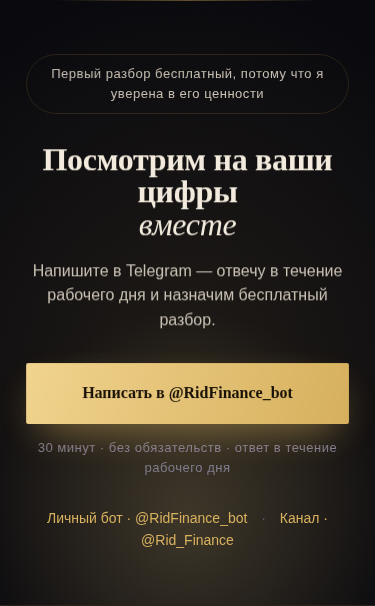
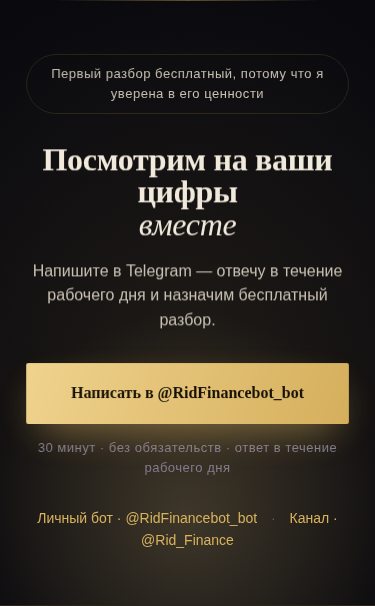
Rename Telegram bot @RidFinance_bot -> @RidFinancebot_bot site-wide
Bot handle changed. Replace every occurrence of RidFinance_bot with
RidFinancebot_bot across the site and docs:
- verdict CTA deep link t.me/RidFinancebot_bot?start=<token>
- final 'Написать в @RidFinancebot_bot' button (text + href)
- footer contact 'Личный бот · @RidFinancebot_bot'
- token-builder comment + TOKEN-SPEC.md + reviewer agent definitions
Channel @Rid_Finance left untouched. Token d3 format and build logic
unchanged — only the bot address in the link changed.

Changed region(s): [[0.176, 0.6238, 0.8213, 0.6832], [0.088, 0.8317, 0.704, 0.8614], [0.7333, 0.8317, 0.88, 0.8614]]

diff --git a/index.html b/index.html
@@ -644,7 +644,7 @@
         <p class="verdict-soft" id="vSoft"></p>
         <div class="cta-row">
           <a class="btn btn-sm" id="tgSend" target="_blank" rel="noopener"
-             href="https://t.me/RidFinance_bot">
+             href="https://t.me/RidFinancebot_bot">
             <svg width="15" height="15" viewBox="0 0 24 24" fill="none" stroke="currentColor"
               stroke-width="1.8" stroke-linecap="round" stroke-linejoin="round" aria-hidden="true">
               <path d="M22 2L11 13"/><path d="M22 2l-7 20-4-9-9-4 20-7z"/></svg>
@@ -923,12 +923,12 @@
     </p>
 
     <div class="cta-final reveal" data-rv="scale">
-      <a href="https://t.me/RidFinance_bot" class="btn" target="_blank" rel="noopener">Написать в @RidFinance_bot</a>
+      <a href="https://t.me/RidFinancebot_bot" class="btn" target="_blank" rel="noopener">Написать в @RidFinancebot_bot</a>
       <p class="micro">30 минут · без обязательств · ответ в течение рабочего дня</p>
     </div>
 
     <div class="contacts">
-      <a href="https://t.me/RidFinance_bot" target="_blank" rel="noopener">Личный бот · @RidFinance_bot</a>
+      <a href="https://t.me/RidFinancebot_bot" target="_blank" rel="noopener">Личный бот · @RidFinancebot_bot</a>
       <span class="contacts-sep" aria-hidden="true">·</span>
       <a href="https://t.me/Rid_Finance" target="_blank" rel="noopener">Канал · @Rid_Finance</a>
     </div>
@@ -1126,7 +1126,7 @@ function choosePrimary(active, money) {
   })[0];
 }
 
-/* ─ Deep-link токен для @RidFinance_bot (открывается как ?start=ТОКЕН) ─
+/* ─ Deep-link токен для @RidFinancebot_bot (открывается как ?start=ТОКЕН) ─
    Полная спецификация для доработки Apps Script: TOKEN-SPEC.md
    Формат (≤64 симв., только A-Za-z0-9_-):  d3_<ниша>_<зоны5>_<ответы3>_<оборот>_<приоритет>
    • ниша      — 1 символ: t=торговля, p=производство, u=услуги, s=строительство,
@@ -1146,7 +1146,7 @@ function buildStartToken(primaryKey) {
 }
 const tgSendEl = document.getElementById('tgSend');
 let lastPrimary = null;
-function tgHref() { return 'https://t.me/RidFinance_bot?start=' + buildStartToken(lastPrimary); }
+function tgHref() { return 'https://t.me/RidFinancebot_bot?start=' + buildStartToken(lastPrimary); }
 function updateTgLink(primaryKey) {
   lastPrimary = primaryKey || null;
   if (tgSendEl) tgSendEl.href = tgHref();

diff --git a/.claude/agents/conversion-funnel-reviewer.md b/.claude/agents/conversion-funnel-reviewer.md
@@ -8,14 +8,14 @@ model: sonnet
 You are a conversion-funnel reviewer for a single-file landing
 (`index.html`) belonging to «Татьяна Рид · CFO на аутсорсе». The site has a
 mini-audit (leak chips + 3 questions + turnover slider) that produces a
-verdict, and a contact path to `@RidFinance_bot`. Judge whether the funnel
+verdict, and a contact path to `@RidFinancebot_bot`. Judge whether the funnel
 truly converts. You report; you do not rewrite.
 
 ## What "closed funnel" means here
 - After finishing the mini-audit, the visitor can send their result to
   Tatiana **through a channel that actually works on a static site** — the
   current design uses a Telegram deep link
-  `https://t.me/RidFinance_bot?start=<token>` where the token encodes the
+  `https://t.me/RidFinancebot_bot?start=<token>` where the token encodes the
   audit state. Confirm the link is built and updated, the token is URL-safe
   (`A-Za-z0-9_-`) and ≤64 chars, and it reflects the chosen zones, the three
   answers, turnover and the priority zone.
@@ -32,10 +32,10 @@ truly converts. You report; you do not rewrite.
   the audit context to Tatiana (deep-link token). Drive Playwright: toggle
   zones/answers/slider and assert `#tgSend` href changes and the token
   matches the inputs.
-- **Short path to contact**: from the verdict, reaching `@RidFinance_bot` is
+- **Short path to contact**: from the verdict, reaching `@RidFinancebot_bot` is
   ≤1 click; a secondary "записаться" path exists and points at the contact
   section.
-- **All Telegram links resolve to the right handle** (`RidFinance_bot`), open
+- **All Telegram links resolve to the right handle** (`RidFinancebot_bot`), open
   in a new tab (`target="_blank" rel="noopener"`).
 - **No redundant/competing CTAs** that confuse the next step.
 - **Honesty**: if structured data needs bot-side work, the page/PR says so —

diff --git a/TOKEN-SPEC.md b/TOKEN-SPEC.md
@@ -1,9 +1,9 @@
-# Спецификация `?start=`-токена для @RidFinance_bot
+# Спецификация `?start=`-токена для @RidFinancebot_bot
 
 Лендинг после прохождения экспресс-диагностики формирует ссылку
 
 ```
-https://t.me/RidFinance_bot?start=<ТОКЕН>
+https://t.me/RidFinancebot_bot?start=<ТОКЕН>
 ```
 
 Посетитель нажимает кнопку **«Отправить разбор Татьяне»** → открывается бот →
@@ -258,7 +258,7 @@ function tokenToRow(token) {
 ## 7. Поведение до доработки скрипта
 
 Пока Apps Script не научится разбирать токен по этой спецификации, ссылка
-`?start=` всё равно открывает @RidFinance_bot и клиент попадает в диалог —
+`?start=` всё равно открывает @RidFinancebot_bot и клиент попадает в диалог —
 **воронка не теряется**. Но разбор **развернётся в таблице только после
 доработки скрипта**: до этого бот видит `/start` с непрочитанным параметром.
 После доработки каждый токен превращается в строку таблицы и/или сообщение

diff --git a/.claude/agents/tech-qa-reviewer.md b/.claude/agents/tech-qa-reviewer.md
@@ -26,7 +26,7 @@ You verify the technical contract. You report; you do not rewrite.
   rule exists and meaningfully reduces motion (animations/transitions/the
   guide walk). Verify nothing breaks or leaves a dead control when motion is
   reduced (e.g. the guide pill should not be a dead button there).
-- **Telegram links work**: all point to `https://t.me/RidFinance_bot`
+- **Telegram links work**: all point to `https://t.me/RidFinancebot_bot`
   (deep-link `?start=` allowed), well-formed, `target="_blank"
   rel="noopener"`. The `?start=` token is URL-safe (`A-Za-z0-9_-`) and ≤64
   chars.
